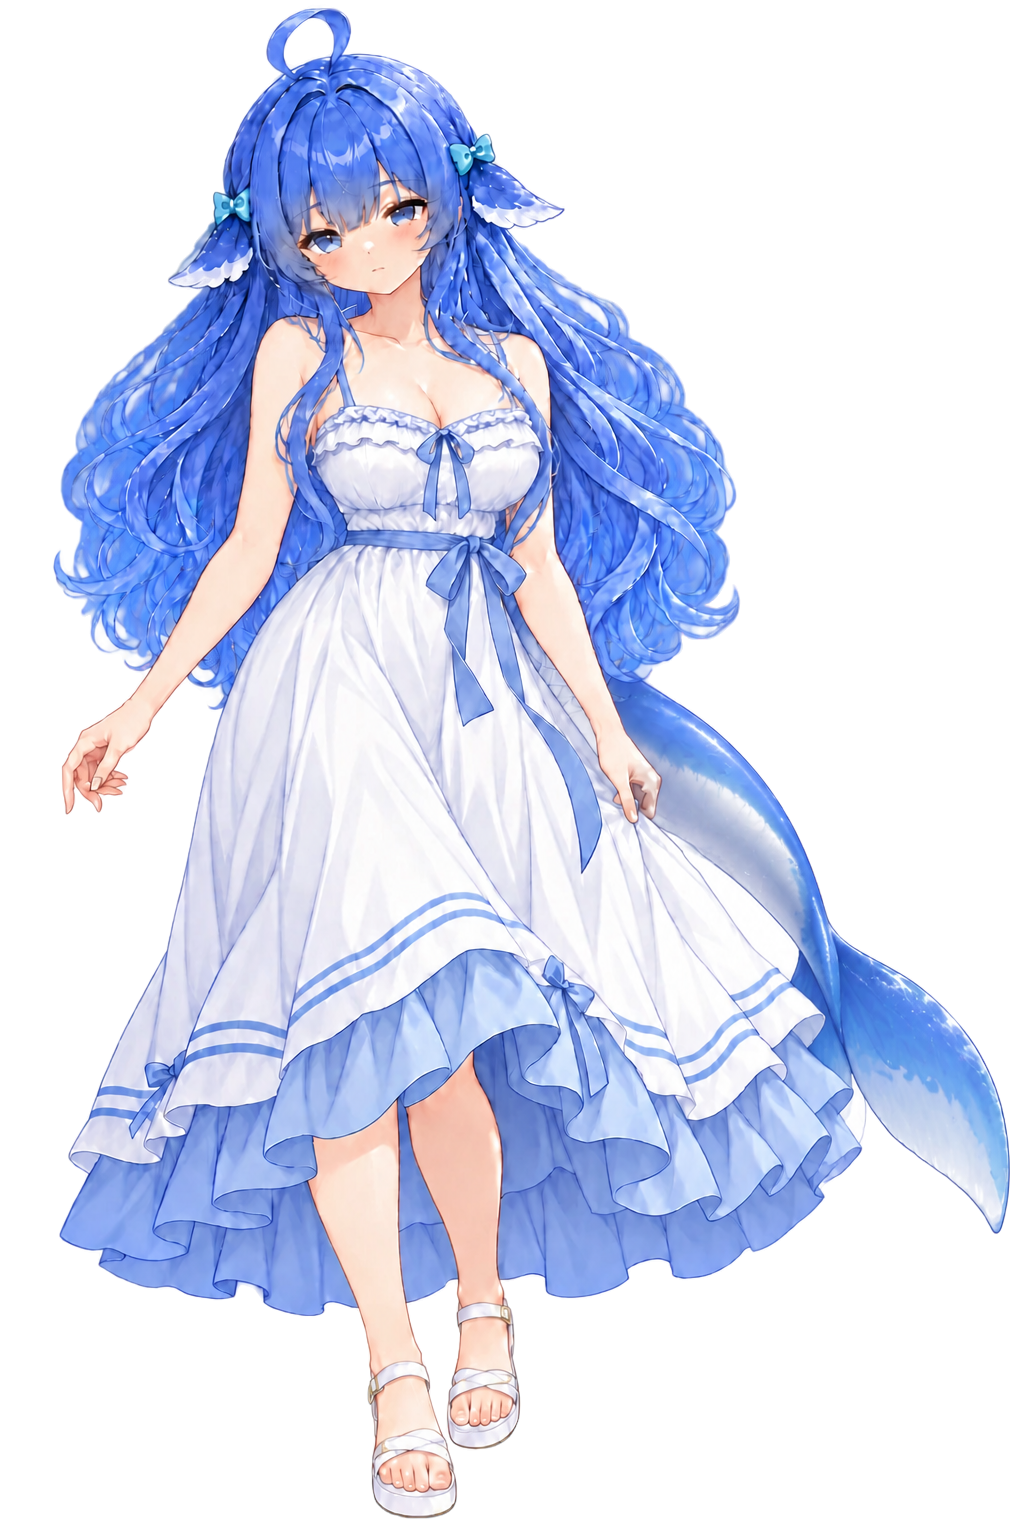
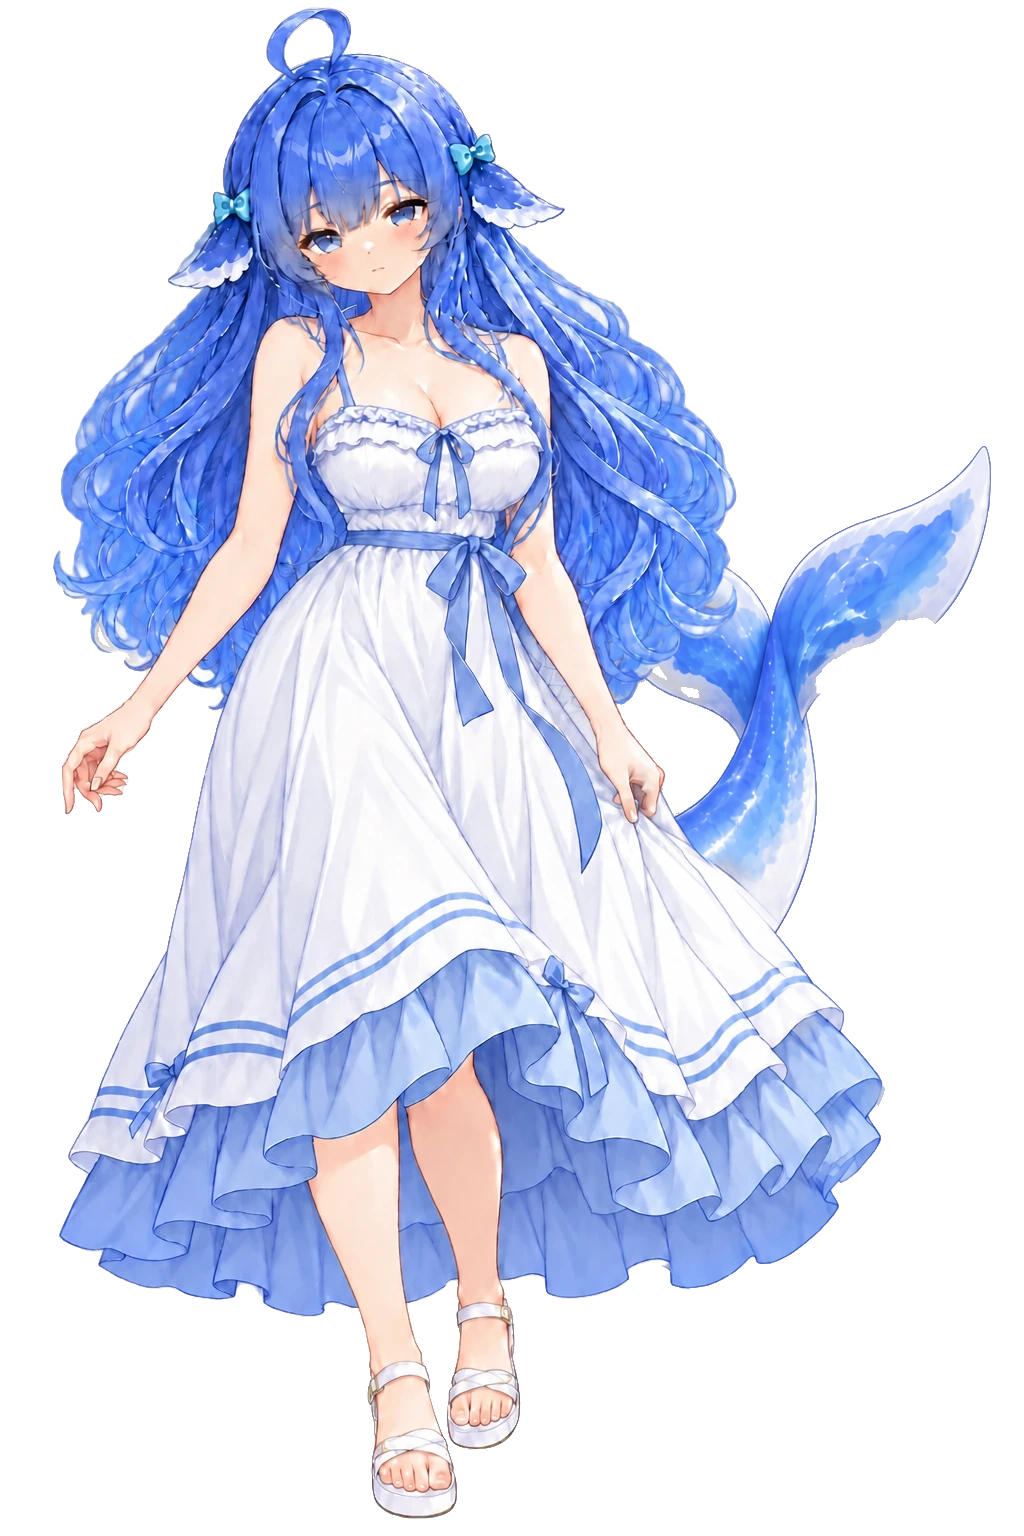
art: L14/L15 尾巴照 L16、L20 照 L19、P12 尾鳍加厚

Changed region(s): [[0.5938, 0.2812, 1.0, 0.8438], [0.0938, 0.4062, 0.1562, 0.4375]]

diff --git a/docs/collab/work-ledger/tails-20261018-evening.md b/docs/collab/work-ledger/tails-20261018-evening.md
@@ -1,0 +1,9 @@
+# 2026-10-18 傍晚 尾巴与换图
+
+- C05：用户朋友手修版整张替换（右手、右腿），原稿 docs/collab/playtest/C05_friend_20261018.webp。
+- L37：尾巴取 L01 原尾巴像素（单一旋纹），按用户要求再加长加粗；尾根交接、头发左缘用 gpt-image-2.5 局部补。
+- O11：用户朋友手修版整张替换，原稿 docs/collab/playtest/O11_friend_20261018.webp。
+- C26：用户提供版整张替换（此前未接入），原稿 docs/collab/playtest/C26_user_20261018.webp。
+- L14、L15：尾巴照 L16（gpt-image-2.5 双图编辑：原图 + L16），只按差异区合成回原图，灰底抠 alpha。
+- L20：尾巴照 L19（双图编辑，取整张新版；局部合成会在腰部出现错位重影）。
+- P12：尾鳍太薄"像纸片"→ 以 L01 尾巴裁图为参考重画尾端，按差异区合回。
